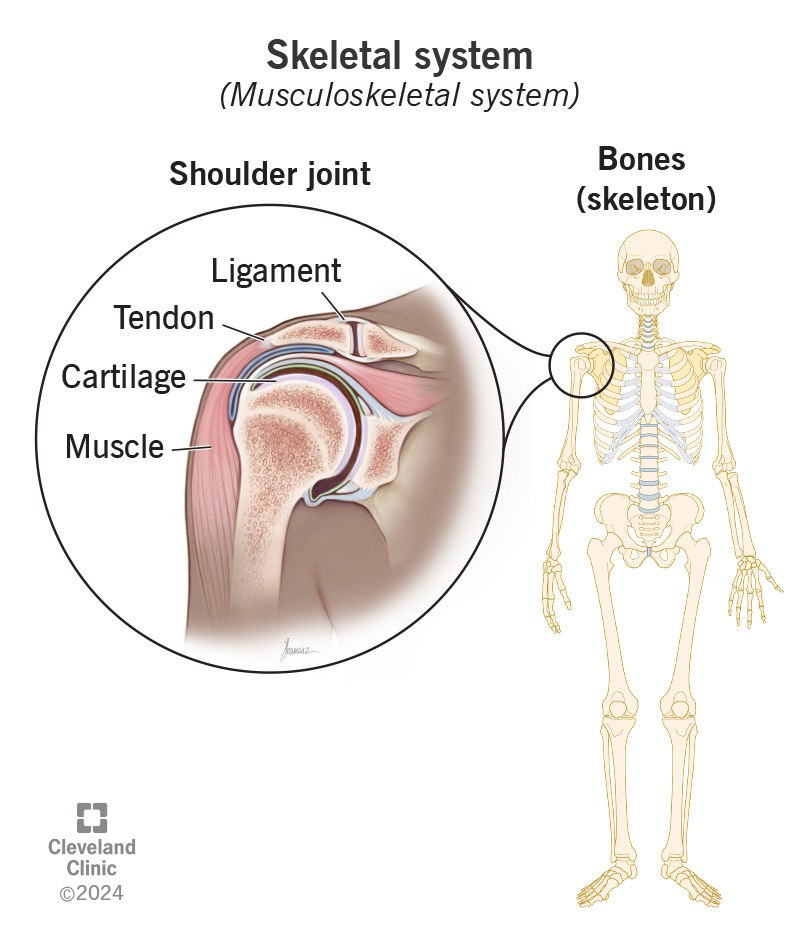
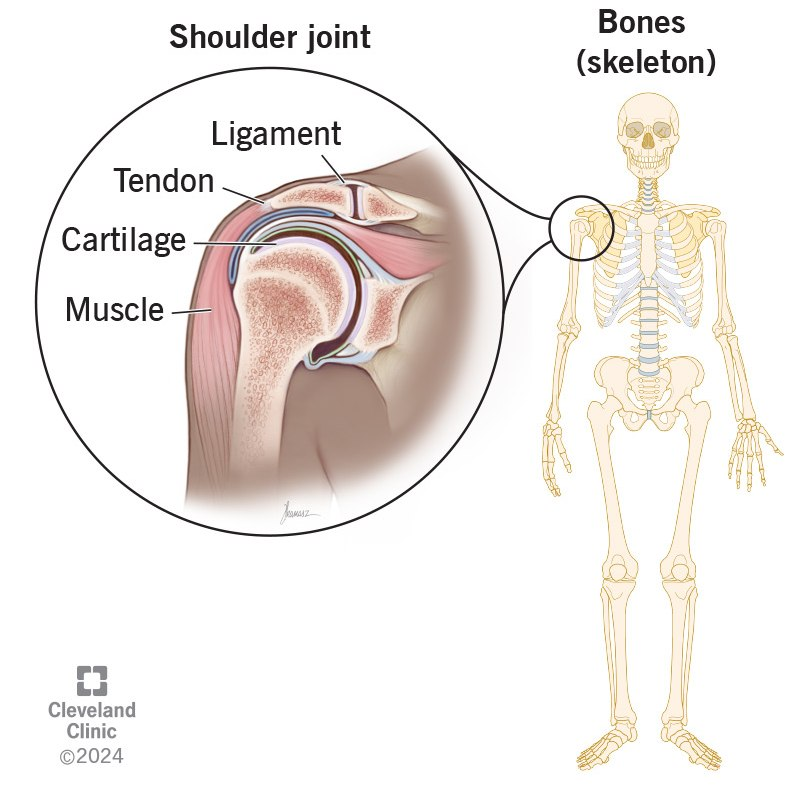
unlock 9 Nov lessons; crop body diagram titles

diff --git a/index.html b/index.html
@@ -176,7 +176,7 @@ const DATA = {
     {"n":53,"sk":53.0,"t":"Follow the Leader","d":"5 Oct 2026","desc":"Baby animals that fall in love with the first thing they see — and how to hack a duckling's brain.","tags":["Biology"],"links":[{"l":"Konrad Lorenz — the original imprinting footage","u":"https://www.youtube.com/watch?v=JGyfcBfSj4M","k":"video"},{"l":"Wild turkeys that imprinted on a human (BBC Earth)","u":"https://youtu.be/tG3FK98-YyA","k":"video"},{"l":"The crane who fell in love with her keeper","u":"https://youtu.be/ihla4rV3Ckc","k":"video"},{"l":"Animal instincts — more weird wiring in nature","u":"https://www.youtube.com/watch?v=wSeholy9cNM","k":"video"},{"l":"Operation Migration — teaching cranes to follow a plane","u":"https://airandspace.si.edu/stories/editorial/operation-migration","k":"web"},{"l":"Will It Imprint? (our game)","u":"mark/will-it-imprint/","k":"ours"}],"future":false},
     {"n":54,"sk":54.0,"t":"Mary Anning, Fossil Hunter","d":"12 Oct 2026","desc":"A girl who found sea monsters on the beach and sold them to survive — and changed science forever.","tags":["History","Earth Science","Biology"],"links":[{"l":"BBC Ideas — the girl who helped discover dinosaurs","u":"https://www.bbc.co.uk/ideas/videos/the-girl-who-helped-discover-dinosaurs/p06bfr1s","k":"video"},{"l":"How does an ammonite become a fossil?","u":"https://www.youtube.com/watch?v=4WljOabDTrs","k":"video"},{"l":"Google Earth — Lyme Regis","u":"https://earth.google.com/web/search/Lyme+Regis,+Dorset,+UK","k":"web"},{"l":"Monsters of the Jurassic seas","u":"https://www.nhm.ac.uk/discover/meet-the-monsters-of-the-jurassic-seas.html","k":"web"},{"l":"Mystery Fossil — identify the fossil puzzle","u":"https://www.amnh.org/explore/ology/paleontology/mystery-fossil","k":"sim"},{"l":"Bone Up on Your Fossils — fossil guessing game","u":"https://www.amnh.org/explore/ology/paleontology/bone-up-on-your-fossils","k":"sim"},{"l":"Layers of Time — which fossils live in which layer","u":"https://www.amnh.org/explore/ology/paleontology/layers-of-time2","k":"sim"},{"l":"Stolen Science — whose discovery was it really? (our game)","u":"mark/stolen-science/","k":"ours"}],"future":false},
     {"n":55,"sk":55.0,"t":"Seeing the Stars in Ancient Egypt","d":"19 Oct 2026","desc":"How Egyptian priests read one special star to predict the Nile's floods — astronomy as a superpower.","tags":["History","Space"],"links":[{"l":"Egyptian astronomy video 1","u":"https://www.youtube.com/watch?v=cK4iAjzAoas","k":"video"},{"l":"TED-Ed — how the pyramids were built","u":"https://www.youtube.com/watch?v=fJBlEPOj4Fk","k":"video"},{"l":"Stellarium desktop — with the Egyptian starlore mode","u":"https://stellarium.org/","k":"web"},{"l":"Google Earth — Giza Pyramid Complex","u":"https://earth.google.com/web/search/Giza+Pyramid+Complex","k":"web"},{"l":"Judgment of the Pharaoh — 24-statement true/false trial (quiz)","u":"https://poe.com/preview/jaBauKnz3IxFW6zlo1c0","k":"sim"},{"l":"Stellarium Web — the live sky","u":"https://stellarium-web.org/","k":"sim"},{"l":"Judgment of the Pharaoh (our game)","u":"mark/judgment-of-the-pharaoh/","k":"ours"}],"future":false},
-    {"n":56,"sk":56.0,"t":"The Space Race","d":"9 Nov 2026","desc":"Two superpowers, one finish line — from Sputnik's beep to the Apollo–Soyuz handshake in orbit.","tags":["History","Space","Technology"],"links":[{"l":"Apollo 11 launch — the crowd-reaction clip","u":"https://www.youtube.com/watch?v=2bztkoHmee0","k":"video"},{"l":"TED-Ed — who won the space race?","u":"https://www.youtube.com/watch?v=FxpC-8f--xo","k":"video"},{"l":"Apollo–Soyuz docking — the handshake, raw 1975 footage","u":"https://www.youtube.com/watch?v=LeA4dYZ_0no","k":"video"},{"l":"Apollo 11 in Real Time — the whole mission, replayable","u":"https://apolloinrealtime.org/11/","k":"web"},{"l":"Newton's Cannon — why getting to orbit is hard","u":"https://noragulfa.com/cannon","k":"sim"},{"l":"Space Race Timeline (our game)","u":"mark/space-race-timeline/","k":"ours"}],"future":true},
+    {"n":56,"sk":56.0,"t":"The Space Race","d":"9 Nov 2026","desc":"Two superpowers, one finish line — from Sputnik's beep to the Apollo–Soyuz handshake in orbit.","tags":["History","Space","Technology"],"links":[{"l":"Apollo 11 launch — the crowd-reaction clip","u":"https://www.youtube.com/watch?v=2bztkoHmee0","k":"video"},{"l":"TED-Ed — who won the space race?","u":"https://www.youtube.com/watch?v=FxpC-8f--xo","k":"video"},{"l":"Apollo–Soyuz docking — the handshake, raw 1975 footage","u":"https://www.youtube.com/watch?v=LeA4dYZ_0no","k":"video"},{"l":"Apollo 11 in Real Time — the whole mission, replayable","u":"https://apolloinrealtime.org/11/","k":"web"},{"l":"Newton's Cannon — why getting to orbit is hard","u":"https://noragulfa.com/cannon","k":"sim"},{"l":"Space Race Timeline (our game)","u":"mark/space-race-timeline/","k":"ours"}],"future":false},
     {"n":57,"sk":57.0,"t":"The World in Space","d":"16 Nov 2026","desc":"Living in orbit — the ISS from the inside: brushing teeth, sleeping standing up, and tears that don't fall.","tags":["Space","Technology","Engineering"],"links":[{"l":"Chris Hadfield — tears in space (don't fall)","u":"https://www.youtube.com/watch?v=P36xhtpw0Lg","k":"video"},{"l":"Chris Hadfield — how to brush your teeth in space","u":"https://www.youtube.com/watch?v=3bCoGC532p8","k":"video"},{"l":"Chris Hadfield — how astronauts sleep in space","u":"https://www.youtube.com/watch?v=UyFYgeE32f0","k":"video"},{"l":"Space stations history — Salyut to the ISS and beyond","u":"https://www.youtube.com/watch?v=_CY9Z3XtSBs","k":"video"},{"l":"ISS live Earth camera","u":"https://isslivenow.com/","k":"sim"},{"l":"ESA — 360° panoramic tour inside the ISS","u":"https://www.esa.int/Science_Exploration/Human_and_Robotic_Exploration/International_Space_Station/Highlights/International_Space_Station_panoramic_tour","k":"sim"},{"l":"Heavens-Above — spot the ISS over Xi'an","u":"https://www.heavens-above.com","k":"sim"},{"l":"PhET — Gravity and Orbits","u":"https://phet.colorado.edu/en/simulations/gravity-and-orbits","k":"sim"}],"future":true}
   ]
   },
@@ -243,7 +243,7 @@ const DATA = {
     {"n":54,"sk":54,"t":"Living Way, Way Down Under","d":"5 Oct 2026","desc":"Life in the coldest places on Earth — how penguins huddle, gear saves lives, and the race to the Pole.","tags":["Environment","Biology","Earth Science"],"links":[{"l":"Arctic vs Antarctic — what is the actual difference?","u":"https://www.youtube.com/watch?v=Z5VRoGTF60s","k":"video"},{"l":"What is it like to live in Antarctica?","u":"https://youtu.be/xVZnQWz0CBI","k":"video"},{"l":"Vox Darkroom — Scott vs Amundsen, the race to the Pole","u":"https://www.youtube.com/watch?v=hpcZmuz2LGY","k":"video"},{"l":"The icefish — a fish with antifreeze for blood","u":"https://youtu.be/A4arbFNGkjU","k":"video"},{"l":"Staying Warm (our game)","u":"ming/staying-warm/","k":"ours"},{"l":"Clean Access (our game)","u":"ming/clean-access/","k":"ours"},{"l":"The Race (our game)","u":"ming/the-race/","k":"ours"}],"future":false},
     {"n":55,"sk":55,"t":"Acid in the Sky","d":"12 Oct 2026","desc":"Acid rain — the number that lies (pH!), dead lakes, and how the sky learned to burn.","tags":["Chemistry","Environment"],"links":[{"l":"The Great Smog of London — the week the sky turned deadly","u":"https://youtu.be/90kq35cWZz4","k":"video"},{"l":"TED-Ed — whatever happened to acid rain?","u":"https://youtu.be/WIdWjqZsGgg","k":"video"},{"l":"PhET — pH Scale","u":"https://phet.colorado.edu/en/simulations/ph-scale","k":"sim"},{"l":"pH: The Number That Lies (our game)","u":"ming/ph-the-number-that-lies/","k":"ours"},{"l":"The Dead Lake (our game)","u":"ming/the-dead-lake/","k":"ours"}],"future":false},
     {"n":56,"sk":56,"t":"From Zero to Six Billion in the Blink of an Eye","d":"19 Oct 2026","desc":"The human explosion — how we went from almost nobody to eight billion, and what happens next.","tags":["Biology","Environment"],"links":[{"l":"Gapminder — Dollar Street","u":"https://www.gapminder.org/dollar-street","k":"web"},{"l":"Gapminder mini-test","u":"https://upgrader.gapminder.org/t/2017-gapminder-test?tab=q","k":"sim"},{"l":"PopulationPyramid.net","u":"https://www.populationpyramid.net/","k":"sim"},{"l":"Footprint Calculator","u":"https://footprintcalculator.org/","k":"sim"},{"l":"The Gap (our simulation)","u":"ming/the-gap/","k":"ours"}],"future":false},
-    {"n":57,"sk":56.5,"t":"The Ever-Expanding Universe","d":"9 Nov 2026","desc":"Earth keeps losing its throne — geocentric to heliocentric to one galaxy among billions. Every time instruments got better, the universe got bigger.","tags":["Space","Physics","History"],"links":[{"l":"SciShow Great Minds — Henrietta Leavitt and her yardstick","u":"https://www.youtube.com/watch?v=2FrY6gRPC7k","k":"video"},{"l":"TED-Ed — three ways the universe could end","u":"https://www.youtube.com/watch?v=itpLU7OzNV8","k":"video"},{"l":"PhET — My Solar System","u":"https://phet.colorado.edu/en/simulations/my-solar-system","k":"sim"},{"l":"Stellarium Web — the live sky","u":"https://stellarium-web.org/","k":"sim"},{"l":"Galaxy Zoo — classify real galaxies","u":"https://www.zooniverse.org/projects/zookeeper/galaxy-zoo","k":"sim"}],"future":true}
+    {"n":57,"sk":56.5,"t":"The Ever-Expanding Universe","d":"9 Nov 2026","desc":"Earth keeps losing its throne — geocentric to heliocentric to one galaxy among billions. Every time instruments got better, the universe got bigger.","tags":["Space","Physics","History"],"links":[{"l":"SciShow Great Minds — Henrietta Leavitt and her yardstick","u":"https://www.youtube.com/watch?v=2FrY6gRPC7k","k":"video"},{"l":"TED-Ed — three ways the universe could end","u":"https://www.youtube.com/watch?v=itpLU7OzNV8","k":"video"},{"l":"PhET — My Solar System","u":"https://phet.colorado.edu/en/simulations/my-solar-system","k":"sim"},{"l":"Stellarium Web — the live sky","u":"https://stellarium-web.org/","k":"sim"},{"l":"Galaxy Zoo — classify real galaxies","u":"https://www.zooniverse.org/projects/zookeeper/galaxy-zoo","k":"sim"}],"future":false}
   ]
   }
 };
